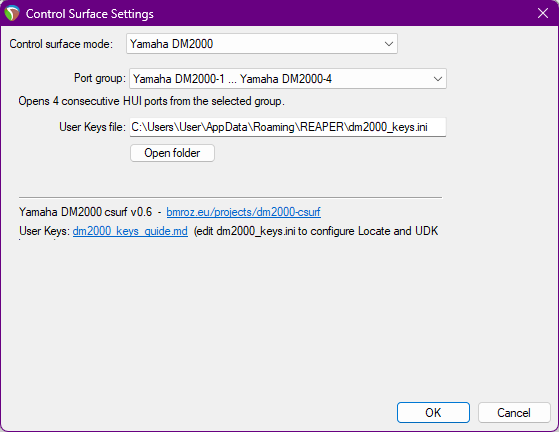
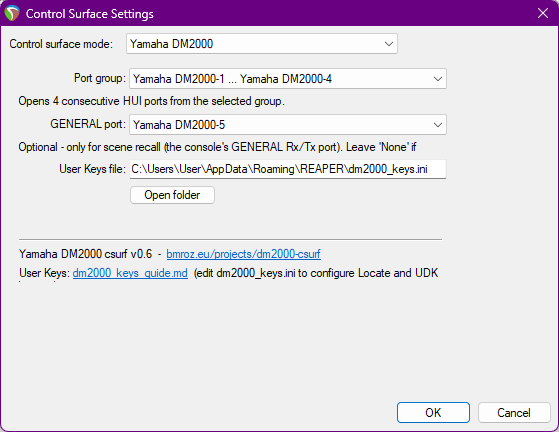
docs: refresh Windows config-dialog screenshot; prune/annotate TODO
- doc/config-dialog.png: new Windows shot showing the GENERAL port row.
- TODO: drop the SysEx scene dump/restore item (out of scope - PC recall covers
  the live workflow); record the Remote Meter finding (console doesn't talk back
  unsolicited, needs a subscription SysEx first); add a capture-first verdict to
  the EQ-via-CC item (the FX param editor already covers EQ editing).
- README/DESIGN: scene dump/restore reframed from "future work" to out of scope.

Changed region(s): [[0.0304, 0.2708, 0.7907, 0.662]]

diff --git a/TODO.md b/TODO.md
@@ -34,10 +34,14 @@
       the `[surround]` plugin on the selected track; the selected routing button's LED lights via
       port 4 (`BE 00 N` on / `BE 01 N` off). Display/Stereo routing buttons don't transmit.
 
-- [ ] **Remote Meter receive** - manual appendix shows SysEx type 0x21 (Remote
-      Meter) is rx/tx on port 8. Capture what the DM2000 sends on port 8 during
-      playback to see if it pushes peak data to the host (would enable meter
-      bridge without polling).
+- [ ] **Remote Meter receive** - manual appendix shows SysEx type 0x21 (Remote Meter) is rx/tx on
+      port 8. NOTE 2026-06-16: the console does not talk back unsolicited - a counter-display value
+      pushed via Bome SendSX updated the display but the DM2000 sent nothing in return (the display
+      path is host->console only). So passive listening won't reveal meters; Remote Meter almost
+      certainly needs the Studio Manager SUBSCRIPTION SysEx sent first
+      (`F0 43 37 3E 06 21 00 <sub> 00 00 18 F7`, sub=0x05 peak) on port 8, THEN capture what streams
+      back. LOW PRIORITY - HUI meter polling already drives the bridge fine; only worth it if polling
+      ever proves too coarse.
 
 - [x] **Full button zone map** - complete MIDI-OX surface capture done
       2026-06-15 (every button, fader, knob). Raw data: doc/midi-capture-2026-06-15.txt.
@@ -140,14 +144,17 @@
       (`B0 4C`, up=next/down=prev, wrapping) scroll pages with a 250ms debounce (arrows fire twice
       per press). Slot/page console-logged.
 
-- [ ] **EQ / parameter control via CC** - manual appendix confirms EQ ATT (input
-      attenuation), EQ ON/OFF, and all faders/pans are accessible as MIDI CC on
-      the GENERAL port (channels 1-16, CC table on pp. 353-368). Layer 4 feature;
-      requires GENERAL port open and a selected-channel UI concept.
+- [ ] **EQ / parameter control via CC** - manual appendix shows EQ ATT, EQ ON/OFF, faders and pans
+      are addressable as MIDI CC on the GENERAL port (channels 1-16, CC table pp. 353-368). OPEN
+      QUESTION (capture first): does turning the SELECTED CHANNEL EQ knobs actually *transmit* CC on
+      the GENERAL port (or port 5/8)? In Pro Tools/HUI mode the dedicated EQ knobs likely drive the
+      console's internal EQ, not the DAW remote layer, so this may emit nothing. If it emits nothing,
+      the path is dead. If it does emit, a dedicated EQ->ReaEQ mapping (real EQ knobs + the console's
+      EQ display) would beat the generic param knobs ergonomically - but it's a sizable Layer-4 feature
+      (16-ch CC decode + a selected-channel-EQ concept + feedback to the console display). The
+      below-display FX parameter editor ALREADY covers EQ editing functionally (assign ReaEQ, use the
+      4 knobs/pages), so this is nice-to-have, not essential. Verdict: capture the GENERAL port while
+      turning EQ knobs; only build if it transmits and the dedicated-knob feel is wanted.
 
 - [x] **macOS port** - cross-platform SWELL build; every release is hardware-verified on
       macOS (universal arm64+x86_64) as well as Windows.
-
-- [ ] **Scene recall — SysEx scene dump/restore** - bidirectional PC recall/scroll is done (above).
-      Remaining: read/write an entire scene's *contents* via SysEx (the Yamaha scene bulk-dump address
-      block is unconfirmed and needs a capture). Lower priority - PC recall covers the live workflow.

diff --git a/DESIGN.md b/DESIGN.md
@@ -539,8 +539,9 @@ Tasks:
         `#SCENE n` scrolls the display only. Default off (drives the desk); forward crossings
         during playback, owning-scene resync on play-start/loop/seek, optional `follow_cursor`
         while stopped. Selected via the config-dialog GENERAL-port dropdown.
-  - [ ] Full SysEx scene dump/restore (read/write an entire scene's contents): separate feature;
-        address block unconfirmed, needs capture.
+  - Full SysEx scene dump/restore (read/write an entire scene's *contents*) is **out of scope** -
+    PC recall/scroll covers the live workflow, the Yamaha scene bulk-dump address block is
+    unconfirmed, and it adds little for REAPER integration. Not planned.
 
 **Test criteria for Layer 3:**
 - Track named "Bass Guitar" shows "Bass Gui" on DM2000 display
@@ -702,8 +703,9 @@ runs on the GENERAL port, not port 8.)
 - **8-char scribble strip names not achievable**: hardware test confirms the display is 4-char wide in DAW mode. Native SysEx pos=4..7 updates console memory but is not visible.
 - **Scene recall - bidirectional, hardware-verified 2026-06-16**: a console recall jumps REAPER to
   the matching marker (receive, default on); `!SCENE`/`#SCENE` markers recall/scroll scenes on the
-  console (send, default off). Runs on a dedicated GENERAL port chosen in the config dialog. Only
-  full SysEx scene *dump/restore* (an entire scene's contents) remains unimplemented.
+  console (send, default off). Runs on a dedicated GENERAL port chosen in the config dialog. Full
+  SysEx scene *dump/restore* (an entire scene's contents) is out of scope - PC recall covers the
+  live workflow.
 - **EQ / send / talkback control not implemented**: queued for Layer 4. (Surround joystick,
   display parameter knobs, and dynamics knobs are implemented in v0.6.)
 

diff --git a/README.md b/README.md
@@ -169,7 +169,7 @@ Full button/zone/MIDI reference: [DESIGN.md - Button / function / MIDI reference
 
 - [x] **Scene recall** (GENERAL port) - bidirectional, hardware-verified 2026-06-16. See
       [Scene recall](#scene-recall-general-port) below. Full SysEx scene *dump/restore* (an
-      entire scene's contents) is still future work.
+      entire scene's contents) is out of scope - PC recall covers the live workflow.
 - [x] Meter bridge - driven by existing HUI meter messages (Layer 2); no native SysEx needed
 - [ ] (in progress) Channel names via native SysEx (port 8) - format captured 2026-06-12, code
       written; not active until port 8 is wired (`m_midiout8` is NULL). Hardware test confirmed the
